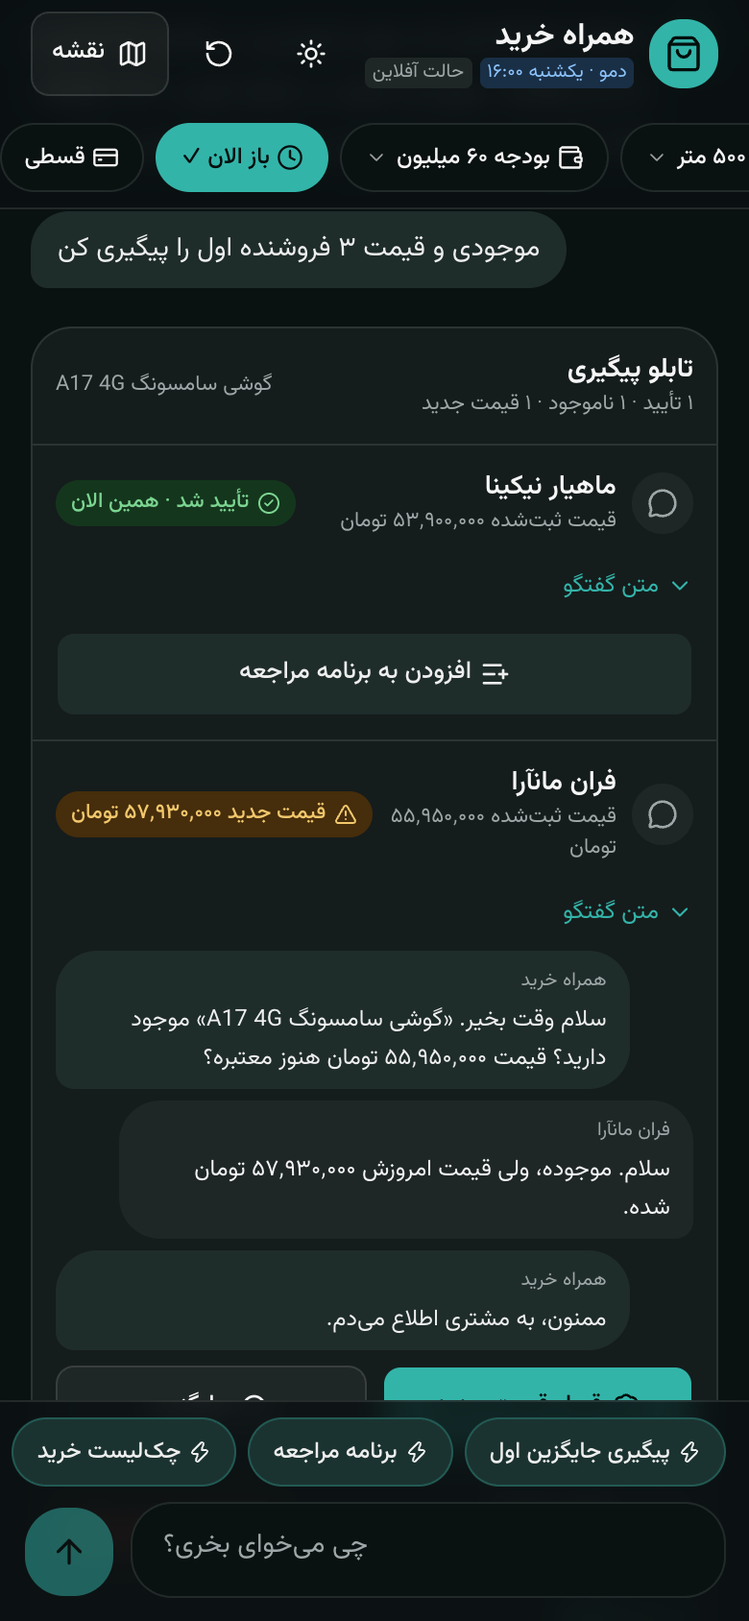
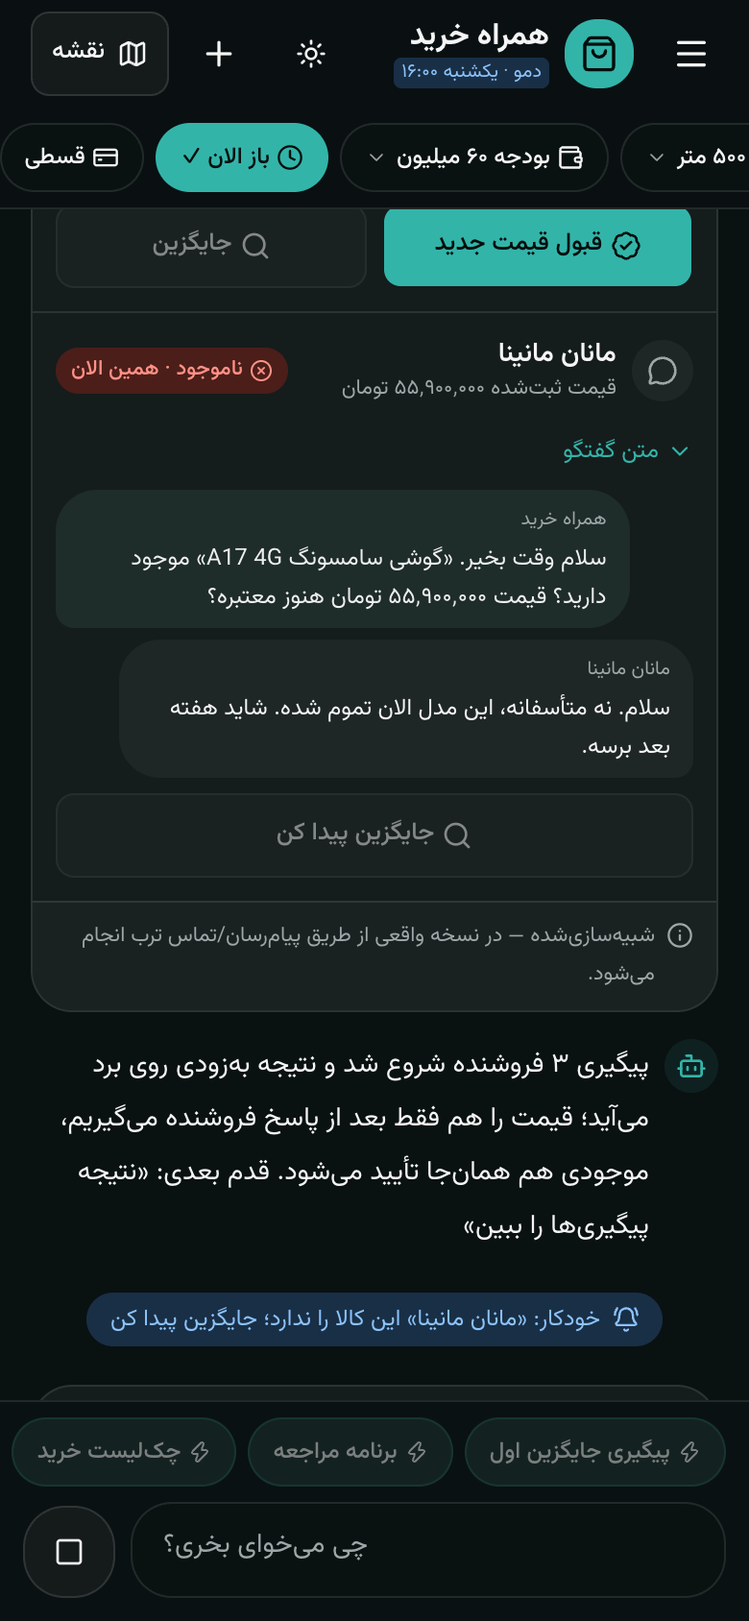
docs: sign-in, history, memory, desktop and shops map; new screenshots
- README: features around the four steps, architecture with users and
  chats, criteria map, scenario flags, routes, demo-reset name param.
- DEMO: login and step 8 (memory, history, resume); new screenshot
  names; desktop notes.
- DEPLOY: deploy main (v1.0 lacks these features); demo-reset with name.
- DECISIONS #43–#53 and a PROGRESS section with the results: 107 unit
  tests, scenario 27/27 on phone, desktop and Docker, llm-check 3/3.
- Screenshots regenerated (phone and docs/screenshots/desktop/).

diff --git a/README.md b/README.md
@@ -5,13 +5,16 @@
 **An AI agent for in‑person shopping in Tehran:** it helps you pick the product, finds nearby shops that actually list it, compares them transparently (listed price ≠ price age ≠ confirmed stock), follows up with sellers (simulated) and plans the walk — mall → floor → unit.
 
 <p align="center">
-  <img src="docs/screenshots/02-products.png" width="180" alt="Product candidates with reasons">
-  <img src="docs/screenshots/05-seller-cards.png" width="180" alt="Seller cards with the three-field transparency block">
-  <img src="docs/screenshots/11-followups-resolved.png" width="180" alt="Live follow-up board">
-  <img src="docs/screenshots/14-trip-plan.png" width="180" alt="Visit plan by mall, floor and unit">
+  <img src="docs/screenshots/03-products.png" width="180" alt="Product candidates with reasons">
+  <img src="docs/screenshots/06-seller-cards.png" width="180" alt="Seller cards with the three-field transparency block">
+  <img src="docs/screenshots/13-followups-resolved.png" width="180" alt="Live follow-up board">
+  <img src="docs/screenshots/16-trip-plan.png" width="180" alt="Visit plan by mall, floor and unit">
+</p>
+<p align="center">
+  <img src="docs/screenshots/desktop/06-seller-cards.png" width="760" alt="Desktop: chat history, seller list and the map with every shop of the area">
 </p>
 
-**Live demo:** `https://<your-domain>` — *(fill in after deployment, see [docs/DEPLOY.md](docs/DEPLOY.md))* · **Demo script:** [docs/DEMO.md](docs/DEMO.md) · **Recording helper:** `/?demo_time=2026-10-25T16:00` and `/demo-reset`
+**Live demo:** `https://<your-domain>` — *(fill in after deployment, see [docs/DEPLOY.md](docs/DEPLOY.md))* · **Demo script:** [docs/DEMO.md](docs/DEMO.md) · **Recording helper:** `/demo-reset?demo_time=2026-10-25T16:00&name=داور` (signs in as «داور» with an empty history; without `name` it signs out)
 
 ---
 
@@ -24,6 +27,13 @@
 | **3. Compare sellers** | Explainable ranking (price · distance · price freshness · open now · conditions, weights by intent), mall clusters («۶ در پاساژ چارسو»), mall/floor/unit chips parsed from free‑text addresses, «ممکن است داشته باشند (فقط دسته فعالیت)» kept separate, and relaxation hints when filters are too strict. |
 | **4. Follow up & go** | Simulated message/call follow‑ups with a live board (confirmed / out of stock / new price / no answer + transcripts). Out of stock → **alternatives automatically** (same product in the same mall first, then similar products ±20%). A visit plan ordered by mall and floor with ETA, open‑at‑arrival checks, navigation links (Neshan, Google Maps, OSM), a share link and an in‑store checklist. |
 
+### Around the four steps
+- **Phone and desktop.** On a phone: one column, map and history in sheets. From 1024 px: chat history · conversation · live map side by side; cards reflow with container queries (two seller cards per row when there is room).
+- **Sign in with just a name** («اسمت چیه؟») — chats are saved per user. There is no password: whoever types the same name opens the same history (a deliberate hackathon trade‑off, [DECISIONS #43](docs/DECISIONS.md)).
+- **Chat history.** Previous chats are listed with their title and last activity (sidebar on desktop, sheet on mobile); opening one brings back every card — seller list, follow‑up board with its outcomes, visit plan — and continues the conversation. Each chat has its own URL (`/?c=<id>`), so back/forward and reload work.
+- **Memory across chats.** The usual location and radius, recent searches and recently chosen products are remembered per user. A new chat starts at the remembered location, greets by name and offers «از جایی که مانده بودیم» (resume the last chat or repeat a recent search); the agent gets the same facts as a short prompt block. «پاک کردن» clears it.
+- **Every shop on the map.** All shops within the radius are drawn (teal: lists the chosen product · amber: activity category only · gray: other shops), the current seller list as numbered pins, names on hover. Tapping any shop opens its sheet: address with mall/floor/unit, today's hours, conditions, the chosen product's offer with «پیگیری» / «به برنامه», the score breakdown (for shops in the seller list) and the shop's other products.
+
 ### Transparency rules (visible on every seller card)
 - **Three separate fields, three visual treatments:** «قیمت ثبتشده» (listed price) · «آخرین تغییر قیمت» (green ≤ 7 d, amber ≤ 30 d, red older, gray unknown) · «موجودی» (stays «تأیید نشده» until a follow‑up confirms it).
 - Unknown is shown as unknown («ثبت نشده»، «اعلام نشده»، «ساعت کاری ثبت نشده») — never blank, never guessed.
@@ -34,43 +44,50 @@
 
 | Criterion (pts) | Where it shows |
 |---|---|
-| **Product (75)** | All four steps end to end; mall → floor → unit navigation from free‑text addresses (4,088 shops parsed); price‑freshness and suspicious‑price flags; category‑only shops separated; follow‑ups with automatic alternatives; visit plan with open‑at‑arrival warnings; shareable plan; checklist. |
-| **UX (75)** | Mobile‑first RTL (390 px), Vazirmatn, Persian digits everywhere; chat **plus** structured controls: sticky ContextBar (location, radius, price cap, conditions, intent) re‑filters the list **instantly without the LLM**; generative UI cards; skeletons; empty states with one tappable fix; 44 px targets; dark mode; Lighthouse mobile **92 / 100 / 100**. |
-| **Intelligence (50)** | Vercel AI SDK v7 agent with 10 tools; deterministic‑first category routing (product votes + trigram) with LLM refinement; Persian budget parser; explainable seller score and «چرا این اول شد؟» grounded in `score_breakdown`; proactive rules (stale price → follow up, out of stock → alternatives, confirmed → plan); automatic fallback to a rule‑based model when the provider fails. |
+| **Product (75)** | All four steps end to end; mall → floor → unit navigation from free‑text addresses (4,088 shops parsed); price‑freshness and suspicious‑price flags; category‑only shops separated; follow‑ups with automatic alternatives; visit plan with open‑at‑arrival warnings; shareable plan; checklist; every shop of the area selectable on the map; per‑user chat history with resume. |
+| **UX (75)** | Mobile‑first RTL (390 px) **and** a desktop layout (≥ 1024 px: history · chat · live map); Vazirmatn, Persian digits everywhere; chat **plus** structured controls: sticky ContextBar (location, radius, price cap, conditions, intent) re‑filters the list **instantly without the LLM**; generative UI cards; skeletons; empty states with one tappable fix; 44 px targets; dark mode; Lighthouse mobile **92 / 100 / 100** (M5 build). |
+| **Intelligence (50)** | Vercel AI SDK v7 agent with 10 tools; deterministic‑first category routing (product votes + trigram) with LLM refinement; Persian budget parser; explainable seller score and «چرا این اول شد؟» grounded in `score_breakdown`; proactive rules (stale price → follow up, out of stock → alternatives, confirmed → plan); memory across chats (usual location/radius, recent searches and products); automatic fallback to a rule‑based model when the provider fails. |
 | **Deploy (40)** | `docker compose up -d` → PostgreSQL 16, app (Next standalone, non‑root, healthcheck), Caddy (automatic HTTPS); migrations + **auto‑seed** on first boot (~30 s); `/api/healthz`; exact VPS commands in [docs/DEPLOY.md](docs/DEPLOY.md). |
-| **Engineering (40)** | TypeScript end to end, Drizzle schema & migrations, COPY‑based seed with 4 streaming passes, pure tested modules (99 unit tests), golden search suite, Playwright scenario (20 checks), CI (typecheck · lint · test), decisions log ([docs/DECISIONS.md](docs/DECISIONS.md)). |
+| **Engineering (40)** | TypeScript end to end, Drizzle schema & migrations, COPY‑based seed with 4 streaming passes, pure tested modules (107 unit tests), golden search suite, Playwright scenario (27 checks on phone and desktop viewports), CI (typecheck · lint · test), decisions log ([docs/DECISIONS.md](docs/DECISIONS.md)). |
 | **Dataset (20)** | Uses all three CSVs: Persian normalization (ی/ک, digits, ZWNJ), mall/floor/unit parser with spelling unification (علاالدین/علاءالدین/علائدین…), hours with `declared/closed/unsupported`, price age & suspicious‑price flags vs product median, payment providers with in‑person vs declared channel, warranty parsing, brand inference for the 75 % of products without a brand. |
 
 ## Architecture
 
 ```mermaid
 flowchart LR
-  subgraph Browser["Mobile web (Next.js, RTL)"]
+  subgraph Browser["Web — phone and desktop (Next.js, RTL)"]
     UI["Chat + generative cards<br/>ContextBar · SellerList · FollowupBoard · TripPlan"]
-    MAP["MapLibre + OSM tiles (lazy)"]
+    HIST["Name sign-in · chat history"]
+    MAP["MapLibre + OSM tiles<br/>all shops + numbered sellers"]
   end
   subgraph App["Next.js 15 route handlers"]
-    CHAT["/api/chat<br/>AI SDK v7 streamText + tools"]
+    CHAT["/api/chat<br/>AI SDK v7 streamText + tools<br/>+ user memory in the prompt"]
     SELL["/api/sellers · /api/session<br/>(no LLM)"]
     FU["/api/followup · /api/plan · /api/shop"]
+    ACC["/api/auth · /api/me · /api/chats<br/>/api/shops/near"]
     TOOLS["Tools: search_products · compare_products · set_context<br/>find_sellers · shop_details · contact_seller<br/>find_alternatives · plan_trip · purchase_checklist · clarify_need"]
     SIM["Seller simulator<br/>sha256(SIM_SALT+offer_id)"]
   end
   LLM["LLM provider (env switch)<br/>OpenAI · Google · OpenRouter<br/>↳ offline rule model fallback"]
-  DB[("PostgreSQL 16<br/>pg_trgm · unaccent<br/>shops · products · offers<br/>sessions · followups · plans")]
+  DB[("PostgreSQL 16<br/>pg_trgm · unaccent<br/>shops · products · offers<br/>users · sessions (chats) · followups · plans")]
   CSV["data/*.csv"] -->|"pnpm seed (COPY)"| DB
   UI -->|"free text / UI actions"| CHAT
   UI -->|"filters, radius, location"| SELL
   UI --> FU
+  HIST --> ACC
+  MAP --> ACC
   CHAT --> TOOLS --> DB
   CHAT <--> LLM
   FU --> SIM --> DB
   SELL --> DB
+  ACC --> DB
   MAP --- UI
   CADDY["Caddy (HTTPS)"] --> App
 ```
 
 **How a turn works.** Free text goes to `streamText` with the tools; the model decides. Taps on cards («فروشندههای نزدیک», «مقایسه», «پیگیری ۳ تای اول», «برنامه مراجعه») are messages with `metadata.action`: the server runs that tool immediately (same code as the LLM's call), streams the card, then the LLM adds one or two sentences. ContextBar changes never call the LLM: they `PATCH /api/session` and the latest seller list re‑fetches `/api/sellers` in place (and is written back into the chat history so the agent explains what the user sees).
+
+**Users, chats and memory.** Signing in with a name sets an httpOnly cookie for a `users` row. Each chat is a `sessions` row owned by that user (context state + the UI messages); the client sends the chat id with every request. The server stores the messages when a turn ends; cards that change afterwards (follow‑up outcomes, a re‑filtered seller list) are saved by the client with `PUT /api/chats/<id>/messages`. After each turn, and when the ContextBar location or radius changes, the user's memory (location, radius, recent searches and products) is updated; it is added to the system prompt and seeds the location of new chats.
 
 ## Quick start
 
@@ -104,7 +121,8 @@ Without any LLM key the app runs in **offline mode** (rule‑based model; badge 
 ```bash
 pnpm typecheck && pnpm lint && pnpm test   # CI runs these
 pnpm golden                                # 15 golden search queries + seller checks (needs the DB)
-pnpm scenario                              # demo scenario §13 on a 390 px viewport, screenshots → docs/screenshots/tmp
+pnpm scenario                              # demo scenario §13 + history/memory on a 390 px viewport, screenshots → docs/screenshots/tmp
+pnpm scenario --desktop                    # same on 1440×900 (history sidebar + map column); --dark for dark mode
 pnpm llm-check                             # one tool call per configured provider
 ```
 
@@ -123,7 +141,7 @@ pnpm llm-check                             # one tool call per configured provid
 | `DATASET_AS_OF` | `2026-10-13` | "Today" for price‑age computation. |
 | `AUTO_SEED` | `true` | Seed on container start when `products` is empty. |
 | `SIM_SALT` | `hamrah-40` | Seed of the deterministic seller simulator (tuned for the demo). |
-| `APP_URL` · `APP_DOMAIN` | — | Public URL; Caddy site address (`example.com` → automatic HTTPS, `:80` → plain HTTP). |
+| `APP_URL` · `APP_DOMAIN` | — | Public URL (an `https://` URL also marks the sign‑in cookie `Secure`); Caddy site address (`example.com` → automatic HTTPS, `:80` → plain HTTP). |
 | `HTTP_PORT` · `HTTPS_PORT` | `80` · `443` | Host ports of Caddy. |
 | `NPM_REGISTRY` | npmjs | Build‑time npm mirror for restricted networks. |
 
@@ -143,11 +161,13 @@ The data is the **Torob × Starcoach hackathon export** («Starcoach v16 cap300 
 
 ```
 app/            page, /plan/[id], /demo-reset, api/{chat,session,sellers,followup,plan,shop,places,products/search,healthz}
-components/     app shell (ContextBar, sheets, composer, map) and cards (products, compare, sellers, follow-ups, alternatives, plan, checklist)
+                api/{auth/login,auth/logout,me,me/memory,chats,chats/[id],chats/[id]/messages,shops/near}
+components/     app shell (login, history, ContextBar, sheets, composer, map column) and cards (products, compare, sellers, follow-ups, alternatives, plan, checklist)
+lib/auth.ts     name-only sign-in (cookie → users row), memory save
 lib/fa          Persian normalization, digits, formatting
 lib/data        mall/floor/unit parser, opening hours, price quality, payments, warranty
-lib/search      query parsing, category routing, product ranking, sellers + score, alternatives, places
-lib/agent       tools, system prompt, session state, suggestions, offline model, checklist
+lib/search      query parsing, category routing, product ranking, sellers + score, alternatives, places, shops near a point
+lib/agent       tools, system prompt, chats (session state + messages), memory, suggestions, offline model, checklist
 lib/sim         seller simulator, persona transcripts, follow-up service
 lib/plan        visit planner
 scripts         seed, golden, scenario, smoke, llm-check, tune-salt

diff --git a/docs/DEMO.md b/docs/DEMO.md
@@ -1,36 +1,38 @@
 # Demo script (spec §13)
 
-Goal: from «گوشی سامسونگ تا ۶۰ میلیون» to a confirmed, mall/floor/unit visit plan in **under 2 minutes of interaction** on a phone‑sized screen.
+Goal: from «گوشی سامسونگ تا ۶۰ میلیون» to a confirmed, mall/floor/unit visit plan in **under 2 minutes of interaction** on a phone‑sized screen — then show that the chat is saved and remembered.
 
 ## Before recording
 
-1. Open **`<app-url>/demo-reset?demo_time=2026-10-25T16:00`** — clears the session and fixes the clock to a weekday (Sunday) at 16:00 Tehran time, so «الان باز است» and follow‑up outcomes are reproducible. The header shows «دمو · یکشنبه ۱۶:۰۰».
-2. Phone or a 390 px viewport (Chrome DevTools → iPhone 12/13/14). Location stays at the default «فردوسی (پیشفرض)» (35.6957, 51.4105).
+1. Open **`<app-url>/demo-reset?demo_time=2026-10-25T16:00&name=داور`** — signs in as «داور» with an empty history and memory, and fixes the clock to a weekday (Sunday) at 16:00 Tehran time, so «الان باز است» and follow‑up outcomes are reproducible. The header shows «دمو · یکشنبه ۱۶:۰۰». Without `&name=…` it signs out and shows the login screen.
+2. Phone or a 390 px viewport (Chrome DevTools → iPhone 12/13/14). Location stays at the default «فردوسی (پیشفرض)» (35.6957, 51.4105). On a desktop window (≥ 1024 px) the same script works: history, chat and map are side by side, so the «نقشه» and history buttons are not needed.
 3. With an LLM key the agent speaks freely; without one the header shows «حالت آفلاین» and the same flow runs with the rule‑based model (all numbers still come from tools).
 4. `SIM_SALT=hamrah-40` gives the mixed outcomes below for the top‑3 sellers.
 
-The whole flow is automated by `pnpm scenario <app-url>` (20 checks); the screenshots below come from it.
+The whole flow is automated by `pnpm scenario <app-url>` (27 checks; `--desktop` for 1440×900, `--dark` for dark mode); the screenshots below come from it (desktop ones in `docs/screenshots/desktop/`).
 
 ## Script
 
 | # | Tap / say | What appears | Point to make | Screenshot |
 |---|---|---|---|---|
-| 0 | — | Hero with 4 scenario chips, «موقعیت من», «انتخاب روی نقشه» | Zero‑onboarding; location is explicit | `01-home.png` |
-| 1 | Tap **«گوشی سامسونگ تا ۶۰ میلیون نزدیک من»** | 4 product cards: A17 128/4 (from ۵۳٬۹۰۰٬۰۰۰ · ۲۶ فروشنده), A07 64/4, A07 128/6, A17 128/6 flagged «کمی بالاتر از بودجه», each with a «چرا» line | Budget parsed deterministically; reasons are templated from data, not invented | `02-products.png` |
-| 2 | Tap **«مقایسه»** on the first two → **«مقایسه کن»** → **«انتخاب»** under A17 128/4 | Compare table (differing specs + price/seller rows), then the seller list | Step 1 → step 2 without typing | `03-compare.png` |
-| 3 | — | «۲۴ فروشنده در شعاع ۱ کیلومتر», cluster chips (چارسو ۶، علاءالدین ۶، بازار موبایل ایران ۴، بزرگمهر ۲، خانه موبایل ۲); cards with mall · floor · unit | Mall navigation parsed from free‑text addresses | `04-sellers.png`, `05-seller-cards.png` |
-| 3b | Tap **«نقشه»** | MapLibre map: radius circle, numbered sellers; tap a pin → its card | Map is lazy; list works without it | `06-map.png` |
-| 3c | Tap **«باز الان»**, then the radius chip → **«۵۰۰ متر»** | List shrinks to 18 in place — no chat round trip | ContextBar re-filters without the LLM | `07-sellers-open-500m.png` |
-| 3d | Tap **«قسطی»** | 0 results + banner «حذف فیلتر قسطی (+۱۸)» → tap it | Relaxation hints; only 128 shops declare installments | `08-installment-relaxation.png` |
-| 4 | Point at the first card, then type **«چرا این اول شد؟»** | Three separate fields: قیمت ثبتشده · آخرین تغییر قیمت (green/amber/red) · موجودی «تأیید نشده»; answer from `why` + `score_breakdown` | Transparency rules of the challenge | `09-why-first.png` |
-| 5 | Tap **«پیگیری ۳ تای اول»** | Follow‑up board: within ~4 s ✅ تأیید شد · ⚠ قیمت جدید ۵۷٬۹۳۰٬۰۰۰ · ❌ ناموجود; transcripts; disclaimer «شبیهسازیشده…». Then «خودکار: … جایگزین پیدا کن» → alternatives: same phone in the same mall first, similar products ±20% | Simulation is honest and deterministic; alternatives are automatic | `10-…`, `11-followups-resolved.png`, `12-alternatives.png`, `13-alternatives-similar.png` |
-| 6 | Tap **«قبول قیمت جدید»**, then **«برنامه مراجعه»** | Plan grouped by mall (پاساژ بزرگمهر → پاساژ چارسو), ETA, «باز در زمان رسیدن», Neshan/Google/OSM links; tap **«چکلیست خرید»** → رجیستری، پلمب، سریال گارانتی، تست دوربین و باتری، فاکتور | From comparison to a concrete walk | `14-trip-plan.png`, `15-checklist.png` |
-| 7 | Tap **«اشتراکگذاری»** and open the link | Read‑only `/plan/<id>` page | Shareable outcome | `16-shared-plan.png` |
+| 0 | Type a name in «اسمت چیه؟» → «ورود» | Hero «سلام داور!» with 4 scenario chips, «موقعیت من», «انتخاب روی نقشه» | Sign in with just a name; chats are saved per user | `01-login.png`, `02-home.png` |
+| 1 | Tap **«گوشی سامسونگ تا ۶۰ میلیون نزدیک من»** | 4 product cards: A17 128/4 (from ۵۳٬۹۰۰٬۰۰۰ · ۲۶ فروشنده), A07 64/4, A07 128/6, A17 128/6 flagged «کمی بالاتر از بودجه», each with a «چرا» line | Budget parsed deterministically; reasons are templated from data, not invented | `03-products.png` |
+| 2 | Tap **«مقایسه»** on the first two → **«مقایسه کن»** → **«انتخاب»** under A17 128/4 | Compare table (differing specs + price/seller rows), then the seller list | Step 1 → step 2 without typing | `04-compare.png` |
+| 3 | — | «۲۴ فروشنده در شعاع ۱ کیلومتر», cluster chips (چارسو ۶، علاءالدین ۶، بازار موبایل ایران ۴، بزرگمهر ۲، خانه موبایل ۲); cards with mall · floor · unit | Mall navigation parsed from free‑text addresses | `05-sellers.png`, `06-seller-cards.png` |
+| 3b | Tap **«نقشه»** (desktop: the map column) | Radius circle, **every shop of the area** as a dot (teal: lists the product · amber: activity category only · gray: other shops), the seller list as numbered pins; tap pin **«۱»** → shop sheet: address with mall/floor/unit, today's hours, the chosen product's offer with «پیگیری» / «به برنامه», score shares, other products | Any shop on the map can be opened and acted on | `07-map.png`, `08-map-shop-details.png` |
+| 3c | Tap **«باز الان»**, then the radius chip → **«۵۰۰ متر»** | List shrinks to 18 in place — no chat round trip | ContextBar re-filters without the LLM | `09-sellers-open-500m.png` |
+| 3d | Tap **«قسطی»** | 0 results + banner «حذف فیلتر قسطی (+۱۸)» → tap it | Relaxation hints; only 128 shops declare installments | `10-installment-relaxation.png` |
+| 4 | Point at the first card, then type **«چرا این اول شد؟»** | Three separate fields: قیمت ثبتشده · آخرین تغییر قیمت (green/amber/red) · موجودی «تأیید نشده»; answer from `why` + `score_breakdown` | Transparency rules of the challenge | `11-why-first.png` |
+| 5 | Tap **«پیگیری ۳ تای اول»** | Follow‑up board: within ~4 s ✅ تأیید شد · ⚠ قیمت جدید ۵۷٬۹۳۰٬۰۰۰ · ❌ ناموجود; transcripts; disclaimer «شبیهسازیشده…». Then «خودکار: … جایگزین پیدا کن» → alternatives: same phone in the same mall first, similar products ±20% | Simulation is honest and deterministic; alternatives are automatic | `12-followups-contacting.png`, `13-followups-resolved.png`, `14-alternatives.png`, `15-alternatives-similar.png` |
+| 6 | Tap **«قبول قیمت جدید»**, then **«برنامه مراجعه»** | Plan grouped by mall (پاساژ بزرگمهر → پاساژ چارسو), ETA, «باز در زمان رسیدن», Neshan/Google/OSM links; the out‑of‑stock shop is left out; tap **«چکلیست خرید»** → رجیستری، پلمب، سریال گارانتی، تست دوربین و باتری، فاکتور | From comparison to a concrete walk | `16-trip-plan.png`, `17-checklist.png` |
+| 7 | Tap **«اشتراکگذاری»** and open the link | Read‑only `/plan/<id>` page | Shareable outcome | `18-shared-plan.png` |
+| 8 | Tap **«گفتگوی تازه»** (＋) | «سلام داور!» + «از جایی که مانده بودیم»: the last search as a chip and «ادامه «گوشی سامسونگ تا ۶۰ میلیون…»» | Memory across chats (location, radius, searches, products) | `19-memory-new-chat.png` |
+| 8b | Open **«گفتگوهای قبلی»** (☰ on a phone, sidebar on desktop) and tap the previous chat (or «ادامه») | The whole chat comes back — seller list, follow‑up board with its outcomes, visit plan — and can be continued; the URL carries `?c=<chat id>` | History and resume | `20-history.png`, `21-resumed-chat.png` |
 
 ## Talking points (30 s wrap‑up)
 
-- **Product/UX:** four steps, chat + controls, mall → floor → unit, open‑at‑arrival, Persian everywhere, works on a phone.
+- **Product/UX:** four steps, chat + controls, mall → floor → unit, open‑at‑arrival, Persian everywhere; phone and desktop layouts; every shop selectable on the map.
 - **Transparency:** listed price ≠ price age ≠ confirmed stock; unknown stays unknown; category‑only shops are separate.
-- **Intelligence:** tool‑calling agent with explainable ranking, proactive follow‑ups and alternatives; graceful offline fallback.
+- **Intelligence:** tool‑calling agent with explainable ranking, proactive follow‑ups and alternatives, memory across chats; graceful offline fallback.
 - **Engineering/deploy:** one `docker compose up -d`, auto‑seed in ~30 s, healthz, CI, golden + scenario tests.
-- **Honesty:** seller contact is simulated because the dataset's phone numbers are fake; a real channel plugs into the same `followups` table.
+- **Honesty:** seller contact is simulated because the dataset's phone numbers are fake; a real channel plugs into the same `followups` table. Sign‑in is name‑only (no password) — fine for a demo, not for real accounts.

diff --git a/docs/DECISIONS.md b/docs/DECISIONS.md
@@ -46,3 +46,14 @@ One line per deviation from `docs/01-master-build-spec.md`, with the reason.
 | 40 | M6 | The container entrypoint runs its arguments when given (`docker compose run --rm app node scripts/seed.cjs`), else migrate → auto-seed (`--if-empty`) → server. | Manual reseed without a second image. |
 | 41 | M6 | Optional `NPM_REGISTRY` build arg and `POSTGRES_PASSWORD` in `.env`; DB port bound to 127.0.0.1. | Iranian servers often need an npm mirror; the database is not exposed publicly. |
 | 42 | M6 | The official dataset URL is not in the repository docs, so the README carries a marked placeholder; DEPLOY.md copies the CSVs with `scp`. | Avoid inventing a download link. |
+| 43 | Post-v1 | Sign-in is **name only**: `POST /api/auth/login` upserts `users` by a normalized `name_key` and sets an httpOnly cookie (`hk_uid`, 1 year; `Secure` when `APP_URL` is https). There is no password — typing the same name opens the same chats. | The request was a simple name-only login so chats are kept per user. Fine for a demo and called out in README/DEMO; real accounts would add a password or OTP to the same `users` table. |
+| 44 | Post-v1 | A chat is a `sessions` row (`user_id`, `title`, context `state`, UI `messages`). The client creates the chat id and sends it as the `useChat` id, or as `x-chat-id` / `?chat=` to the other APIs; the page URL is `/?c=<id>`. Another user's chat answers 404. | Keeps the per-session state (context, shortlist, follow-ups, plans) unchanged; one id ties chat, ContextBar, follow-ups and plans together; history entries are linkable and survive reloads. |
+| 45 | Post-v1 | Messages are saved by the server when a turn ends (`createUIMessageStream` `onEnd`) and by the client (`PUT /api/chats/<id>/messages`, 1.5 s after the reply, ≤ 4 MB) when cards change later (follow-up outcomes, re-filtered seller lists). The model sees the last 16 messages. | The server save makes history independent of the browser; the client save keeps UI state that changes after the turn. 16 messages bound the prompt in long chats. |
+| 46 | Post-v1 | Memory is per user and small: usual location (never the default) and radius, last 8 searches, last 5 chosen products. It is updated after each turn and by ContextBar changes, added to the system prompt as a few Persian lines, seeds the location/radius of new chats and drives the hero «از جایی که مانده بودیم». «پاک کردن» clears it. | "Remember me" without embeddings or LLM-written notes that could invent facts: every remembered item is something the user did. |
+| 47 | Post-v1 | Desktop layout from 1024 px: history sidebar · chat · map column, each scrolling on its own; card grids use container queries (`@container`, `@2xl:`) instead of viewport breakpoints. Phones keep one column with sheets. | The chat column's width, not the viewport, decides whether two seller cards fit side by side; one component tree serves both layouts. |
+| 48 | Post-v1 | Every shop within the radius is drawn in one GeoJSON circle layer (`/api/shops/near` returns compact tuples; colour = lists the chosen product / activity category only / other); the seller list stays numbered DOM markers. Layers are added on `style.load` with a ready queue. | Thousands of DOM markers are slow on phones, one WebGL layer is not. `load` waits for tiles, which left the map blank on slow networks. |
+| 49 | Post-v1 | `set_context` ignores «نزدیک من / من / اینجا…» and the current location's own label; the system prompt says «نزدیک من» means the current location. | A live model called `set_context(location_text:"فردوسی")` for «نزدیک من», which moved the centre and widened the list to 4.6k shops. |
+| 50 | Post-v1 | The end-of-turn save never replaces a resolved follow-up status with pending/contacting, and the visit plan reads follow-up rows directly. | The turn that starts follow-ups ends before they resolve; its save raced the poller and the plan listed an out-of-stock shop as «در حال پیگیری». |
+| 51 | Post-v1 | `faText` is applied to all LLM-authored text (assistant messages, checklist items, transcripts). | Live models write ASCII digits («حافظه 128»); the UI rule is Persian digits everywhere. |
+| 52 | Post-v1 | `/api/me` answers 200 `{user:null}` when signed out. | Browsers log a 401 as a console error, and being signed out is a normal state. |
+| 53 | Post-v1 | The Google model in `llm-check` and the docs is `gemini-3.1-flash-lite`. | `gemini-2.5-flash` is no longer offered to new API users; `gemini-3.1-flash-lite` passes the tool-call check in ~4 s. |

diff --git a/docs/PROGRESS.md b/docs/PROGRESS.md
@@ -113,14 +113,32 @@ Acceptance (local, fresh compose project and volumes, Caddy on :8089):
 - `docker compose restart app` / recreate → data kept, seed skipped (`--if-empty`), healthz green.
 - `docker compose run --rm app node scripts/seed.cjs --if-empty` runs the bundled seed.
 
+## Post-v1 — Name sign-in, chat history, memory, desktop layout, shops map ✅
+
+Request (owner, 2026-10-23): a desktop layout as well as mobile, adapting to the device; memory; a list of previous chats that can be continued; a simple name-only login so chats are saved per user; shops shown on the map and selectable.
+
+Done:
+- `users` table and `sessions.user_id/title/messages` (migration `0003_users_chats`); `lib/auth.ts` (name-only sign-in cookie), `lib/agent/memory.ts`; APIs `auth/login`, `auth/logout`, `me`, `me/memory`, `chats`, `chats/[id]`, `chats/[id]/messages`, `shops/near`; the existing APIs take the chat id.
+- Login screen; history panel (desktop sidebar, mobile sheet, delete); resume via `/?c=<id>` with back/forward; hero greeting and «از جایی که مانده بودیم»; memory block in the system prompt; «پاک کردن».
+- Desktop layout from 1024 px (history · chat · map column) with container-query card grids; the shop sheet opens from the side on desktop.
+- Map: every shop within the radius (WebGL layer, legend, «فقط مرتبطها / همه فروشگاهها»), names on hover, click → shop sheet with the chosen product's offer and «پیگیری» / «به برنامه».
+- Fixes found while testing with live models: «نزدیک من» no longer moves the location, the follow-up status race in the visit plan, ASCII digits in LLM text (decisions #49–#51).
+- Unit tests for memory and name validation.
+
+Acceptance:
+- `pnpm typecheck && pnpm lint && pnpm test && pnpm golden` green (107 unit tests; golden 15/15 + 10/10).
+- `pnpm scenario` with the live model (OpenAI `gpt-5.4-mini`, demo time Sunday 16:00): **27/27** on 390 px, **27/27** with `--desktop` (1440×900), and **27/27** against the rebuilt Docker image through Caddy (`http://localhost:8088`, 52 s). Screenshots: `docs/screenshots/` and `docs/screenshots/desktop/`.
+- `pnpm llm-check`: openai (`gpt-5.4-mini`) OK in 2.6 s, google (`gemini-3.1-flash-lite`) OK in 1.1 s, openrouter (`openai/gpt-4.1-mini`) OK in 2.1 s.
+
 ## Final status
 
-- `pnpm typecheck && pnpm lint && pnpm test && pnpm golden` → green (99 unit tests; golden 15/15 queries + 10/10 seller checks).
-- Demo scenario §13 steps 1–7: `pnpm scenario` 20/20 (dev, production build and Docker), `?demo_time=` and `/demo-reset` supported.
+- `pnpm typecheck && pnpm lint && pnpm test && pnpm golden` → green (107 unit tests; golden 15/15 queries + 10/10 seller checks).
+- Demo scenario §13 steps 1–7 plus history/memory (step 8): `pnpm scenario` 27/27 (phone, desktop and Docker), `?demo_time=` and `/demo-reset?name=` supported.
+- All three LLM providers verified live on 2026-10-23 (`pnpm llm-check`: 3 ok).
 - CI: GitHub Actions (install → typecheck → lint → test) on every push.
 - Parsed malls for 4,088 shops (after parser refinements in M1).
 
 Known issues / gaps:
-- **LLM providers not verified live — no API keys were available** (`pnpm llm-check`: openai, google and openrouter all skipped). The agent was verified with the offline rule model and with a failing provider (automatic fallback + Persian notice). Add a key to `.env` and run `pnpm llm-check` (and `LLM_PROVIDER=<p> pnpm llm-check --provider=<p>`).
-- Product images (image.torob.com) did not load from the build machine (TLS error); a placeholder is shown until an image loads.
+- Sign-in has no password: anyone who types the same name sees the same chats (by design for the demo, decision #43).
+- Product images (image.torob.com) did not load from the build machine (TLS errors / timeouts); a placeholder is shown until an image loads.
 - Live demo URL and the official dataset link are placeholders in README until the owner deploys / adds the link.

diff --git a/docs/DEPLOY.md b/docs/DEPLOY.md
@@ -31,8 +31,9 @@ sudo systemctl restart docker
 ```bash
 git clone https://github.com/husseinrasti/torob-seller-agent.git
 cd torob-seller-agent
-git checkout v1.0
 ```
+
+`main` is the latest version (name sign‑in, chat history, memory, desktop layout); `git checkout v1.0` gives the first release without them.
 
 ## 3. Dataset (from your laptop)
 
@@ -60,7 +61,7 @@ APP_DOMAIN=hamrah.example.com
 APP_URL=https://hamrah.example.com
 POSTGRES_PASSWORD=<a-long-random-password>
 LLM_PROVIDER=openai                 # or google / openrouter
-LLM_MODEL=gpt-4.1-mini              # e.g. gemini-2.5-flash for google, openai/gpt-4.1-mini for openrouter
+LLM_MODEL=gpt-4.1-mini              # e.g. gemini-3.1-flash-lite for google, openai/gpt-4.1-mini for openrouter
 OPENAI_API_KEY=sk-...               # the key matching LLM_PROVIDER
 ```
 
@@ -89,7 +90,7 @@ docker compose ps
 
 Expected: `{"ok":true,"db":true,"counts":{"shops":6476,"products":225903,"offers":331506},"llm_provider":"openai"}` and all three services `Up` (`app` becomes `healthy`).
 
-On a phone open `https://hamrah.example.com/demo-reset?demo_time=2026-10-25T16:00` and follow [DEMO.md](DEMO.md). From your laptop you can also run the scripted check against the server:
+On a phone open `https://hamrah.example.com/demo-reset?demo_time=2026-10-25T16:00&name=داور` (signs in as «داور» with an empty history) and follow [DEMO.md](DEMO.md). A desktop browser gets the three‑column layout. From your laptop you can also run the scripted check against the server:
 
 ```bash
 pnpm install && pnpm scenario https://hamrah.example.com
